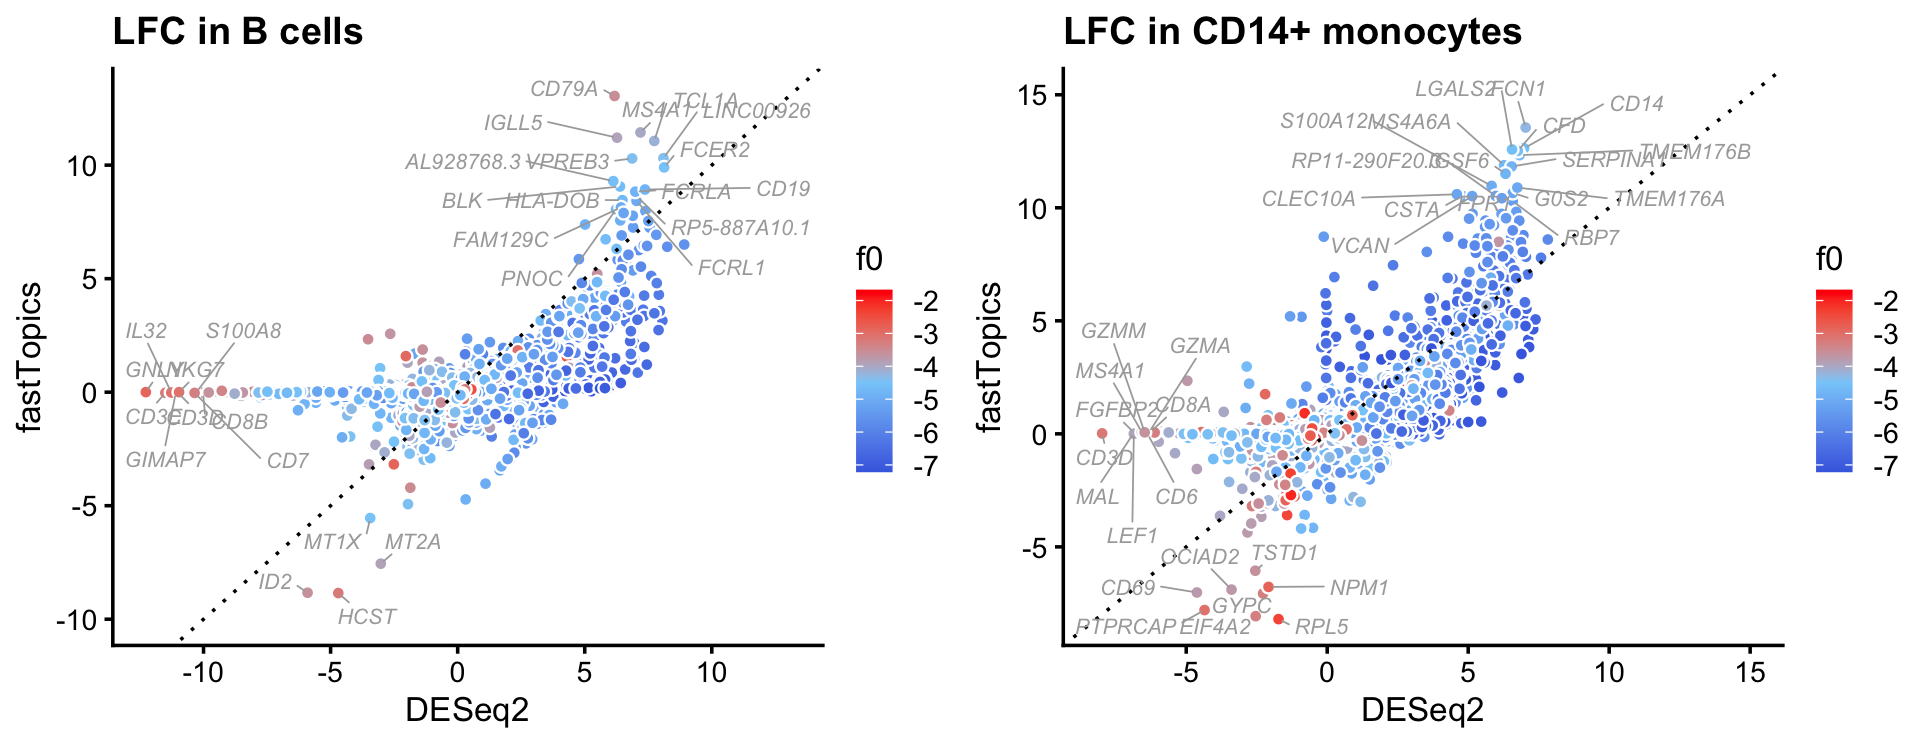
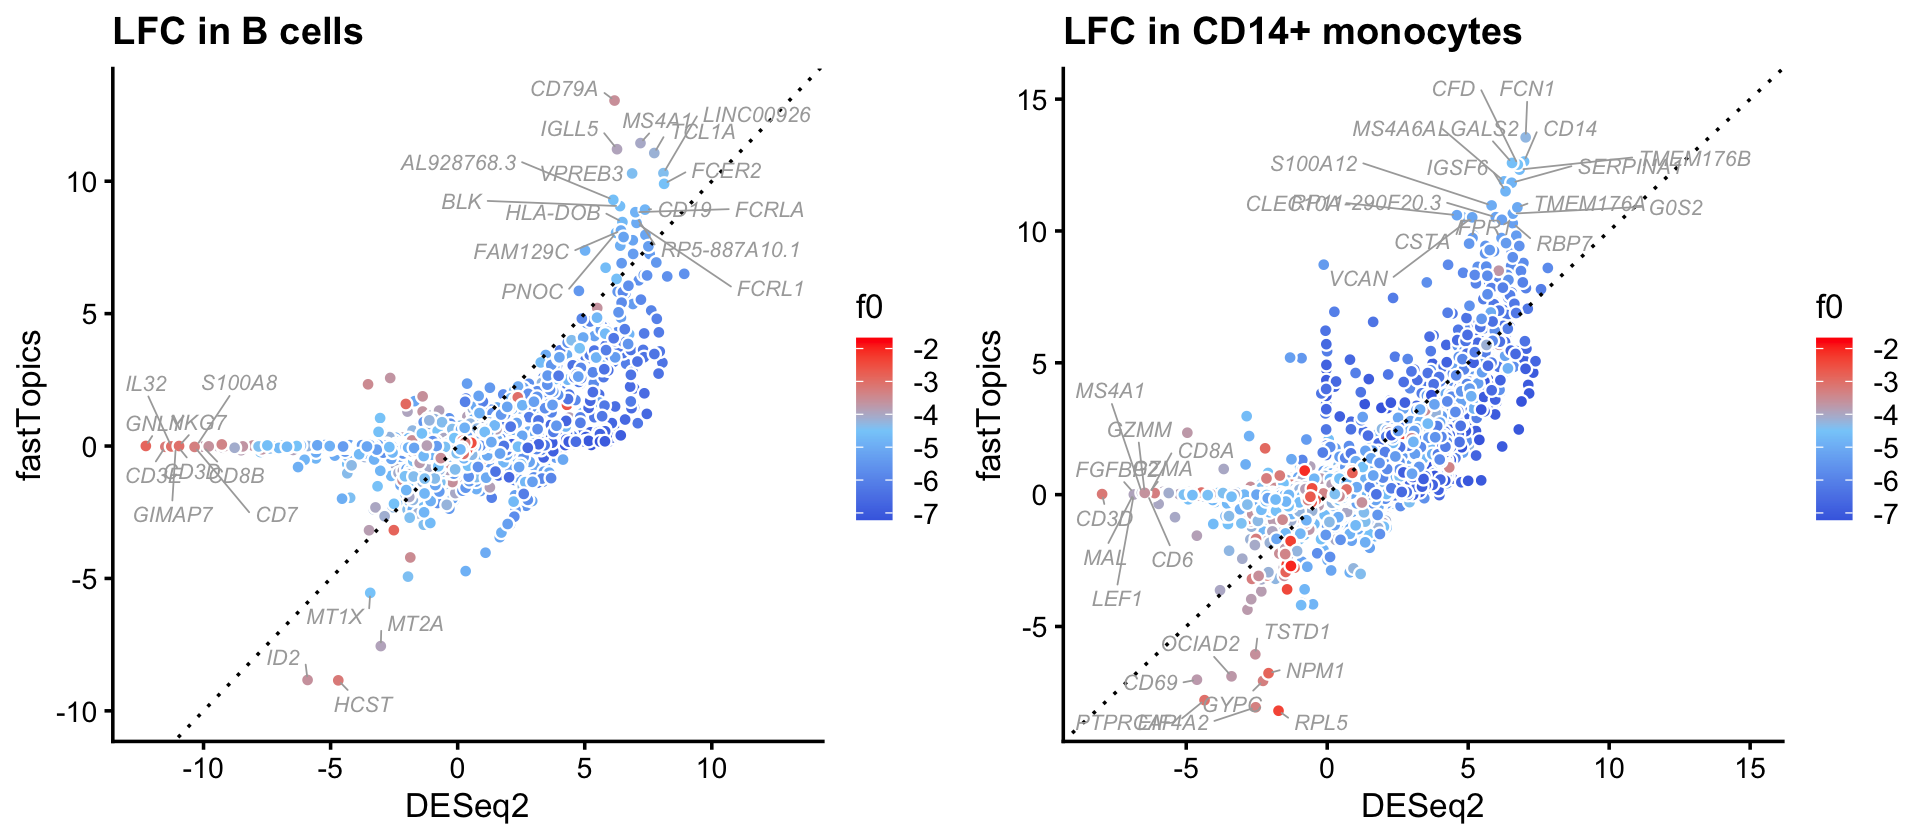
Adjusted dimensions of scatterplots.

diff --git a/docs/de_analysis_purified_pbmc.html b/docs/de_analysis_purified_pbmc.html
@@ -414,16 +414,16 @@ This reproducible <a href="http://rmarkdown.rstudio.com">R Markdown</a> analysis
 <div class="panel panel-default">
 <div class="panel-heading">
 <p class="panel-title">
-<a data-toggle="collapse" data-parent="#workflowr-checks" href="#strongRepositoryversionstrongahrefhttpsgithubcomstephenslabsinglecelltopicstreeca564bbd2eafe01e8718ad439da5e3590a7e659ftargetblankca564bba"> <span class="glyphicon glyphicon-ok text-success" aria-hidden="true"></span> <strong>Repository version:</strong> <a href="https://github.com/stephenslab/single-cell-topics/tree/ca564bbd2eafe01e8718ad439da5e3590a7e659f" target="_blank">ca564bb</a> </a>
+<a data-toggle="collapse" data-parent="#workflowr-checks" href="#strongRepositoryversionstrongahrefhttpsgithubcomstephenslabsinglecelltopicstreeffd99722e4cd012b9b3ec2043f79d152fad98553targetblankffd9972a"> <span class="glyphicon glyphicon-ok text-success" aria-hidden="true"></span> <strong>Repository version:</strong> <a href="https://github.com/stephenslab/single-cell-topics/tree/ffd99722e4cd012b9b3ec2043f79d152fad98553" target="_blank">ffd9972</a> </a>
 </p>
 </div>
[2 lines of base64/hex data omitted]
 <div class="panel-body">
 <p>
 Great! You are using Git for version control. Tracking code development and connecting the code version to the results is critical for reproducibility.
 </p>
 <p>
-The results in this page were generated with repository version <a href="https://github.com/stephenslab/single-cell-topics/tree/ca564bbd2eafe01e8718ad439da5e3590a7e659f" target="_blank">ca564bb</a>. See the <em>Past versions</em> tab to see a history of the changes made to the R Markdown and HTML files.
+The results in this page were generated with repository version <a href="https://github.com/stephenslab/single-cell-topics/tree/ffd99722e4cd012b9b3ec2043f79d152fad98553" target="_blank">ffd9972</a>. See the <em>Past versions</em> tab to see a history of the changes made to the R Markdown and HTML files.
 </p>
 <p>
 Note that you need to be careful to ensure that all relevant files for the analysis have been committed to Git prior to generating the results (you can use <code>wflow_publish</code> or <code>wflow_git_commit</code>). workflowr only checks the R Markdown file, but you know if there are other scripts or data files that it depends on. Below is the status of the Git repository when the results were generated:
@@ -487,6 +487,40 @@ Message
 </tr>
 </thead>
 <tbody>
+<tr>
+<td>
+Rmd
+</td>
+<td>
+<a href="https://github.com/stephenslab/single-cell-topics/blob/ffd99722e4cd012b9b3ec2043f79d152fad98553/analysis/de_analysis_purified_pbmc.Rmd" target="_blank">ffd9972</a>
+</td>
+<td>
+Peter Carbonetto
+</td>
+<td>
+2021-12-31
+</td>
+<td>
+workflowr::wflow_publish(“de_analysis_purified_pbmc.Rmd”, verbose = TRUE)
+</td>
+</tr>
+<tr>
+<td>
+html
+</td>
+<td>
+<a href="https://rawcdn.githack.com/stephenslab/single-cell-topics/df7f52cd62bd54da4114fdaab87f6e3f9c95d9a7/docs/de_analysis_purified_pbmc.html" target="_blank">df7f52c</a>
+</td>
+<td>
+Peter Carbonetto
+</td>
+<td>
+2021-12-31
+</td>
+<td>
+Revised scatterplots in de_analysis_purified_pbmc analysis.
+</td>
+</tr>
 <tr>
 <td>
 Rmd
@@ -1852,6 +1886,17 @@ Date
 <tbody>
 <tr>
 <td>
+<a href="https://github.com/stephenslab/single-cell-topics/blob/df7f52cd62bd54da4114fdaab87f6e3f9c95d9a7/docs/figure/de_analysis_purified_pbmc.Rmd/bcells-z-scores-1.png" target="_blank">df7f52c</a>
+</td>
+<td>
+Peter Carbonetto
+</td>
+<td>
+2021-12-31
+</td>
+</tr>
+<tr>
+<td>
 <a href="https://github.com/stephenslab/single-cell-topics/blob/fd6a115862297f11c1db2b23a069d91025ed3ae7/docs/figure/de_analysis_purified_pbmc.Rmd/bcells-z-scores-1.png" target="_blank">fd6a115</a>
 </td>
 <td>
@@ -2050,6 +2095,17 @@ Date
 </tr>
 </thead>
 <tbody>
+<tr>
+<td>
+<a href="https://github.com/stephenslab/single-cell-topics/blob/df7f52cd62bd54da4114fdaab87f6e3f9c95d9a7/docs/figure/de_analysis_purified_pbmc.Rmd/volcano-plots-1.png" target="_blank">df7f52c</a>
+</td>
+<td>
+Peter Carbonetto
+</td>
+<td>
+2021-12-31
+</td>
+</tr>
 <tr>
 <td>
 <a href="https://github.com/stephenslab/single-cell-topics/blob/fd6a115862297f11c1db2b23a069d91025ed3ae7/docs/figure/de_analysis_purified_pbmc.Rmd/volcano-plots-1.png" target="_blank">fd6a115</a>
